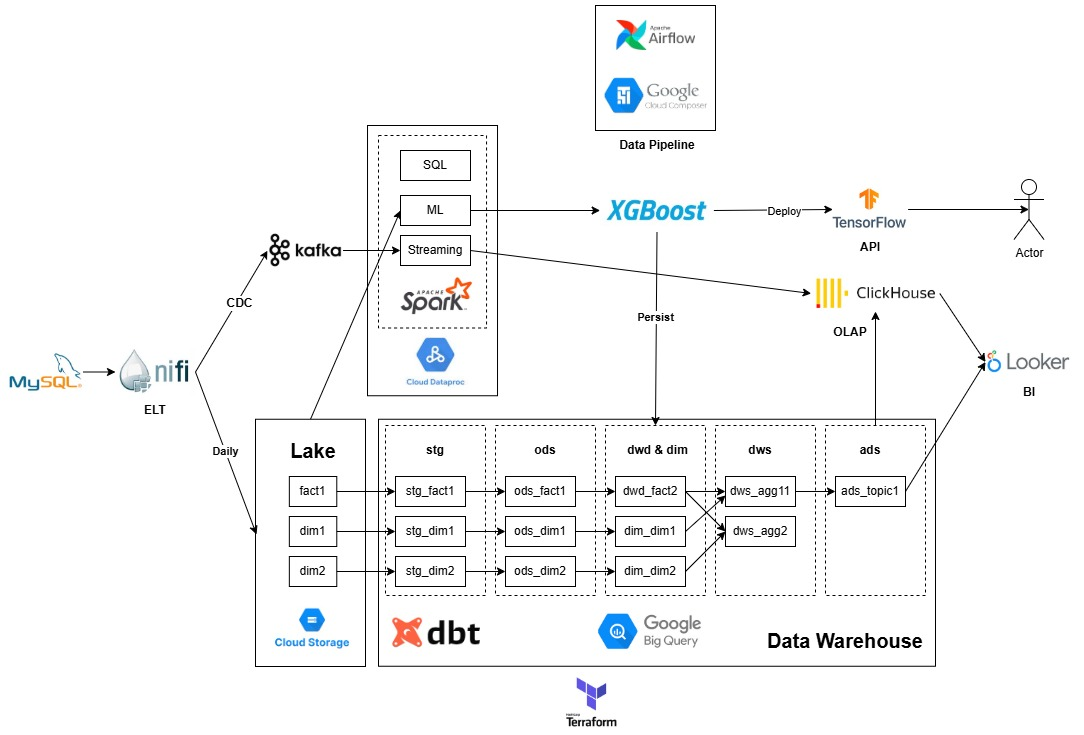
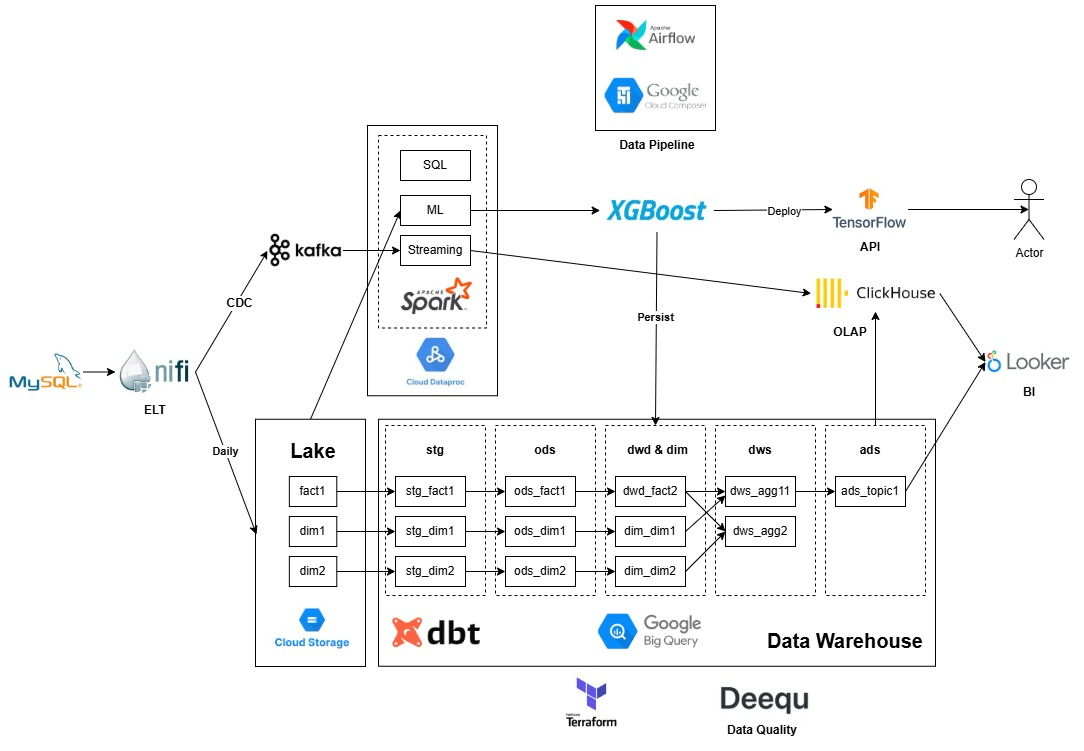
update pictures

diff --git a/Prerequisite/methodology.md b/Prerequisite/methodology.md
@@ -80,7 +80,8 @@
   - dbt
 - Data Pipeline Orchestration
   - Airflow, Cloud Composer
-- Data Monitoring
+- Data Quality
+  - Deequ
 - Data Application: BI, ML
   - Looker, Spark ML, XGBoost
 
@@ -88,7 +89,7 @@
 - Completeness: missing or not
   - Attribute-level(columns), Record-level(rows)
 - Validity: meet certain criteria
-  - data format(phone, zipcode, email, date), data range(min, max, enumeration, nullable), complex rules(if a = 1 then b < 0.5)
+  - data format(phone, zipcode, email, date), data type(integer, string), data range(min, max, enumeration, nullable), complex rules(if a = 1 then b < 0.5)
 - Uniqueness: duplication or not
 - Timeliness: available before when
   - Freshness, Latency
@@ -96,18 +97,19 @@
 - Accuracy: correct or not
 - Integrity: the accuracy and consistency of data over its lifecycle
 
-### Frameworks
+### Open Source Frameworks
 - https://github.com/awslabs/deequ
 - https://github.com/great-expectations/great_expectations
+  - https://github.com/calogica/dbt-expectations
 - https://github.com/sodadata/soda-core
-- https://github.com/calogica/dbt-expectations
+- https://github.com/ubisoft/mobydq
   
 ![Data Quality](https://github.com/barneywill/bigdata_demo/blob/main/imgs/data_quality.jpg)
 
 ## <a id='architecture'></a> 8 Data Architecture
-- Lambda
-  - Drawbacks: double code and system/conflict
-- Kappa
+- Lambda: Batch + Real-time
+  - Drawbacks: double code and system/conflicts
+- Kappa: Only Real-time
   - Drawbacks: re-precess/out of order data/cold storage/complex joins
 
 ![bigdata cloud](https://github.com/barneywill/bigdata_demo/blob/main/imgs/bigdata_cloud.jpg)

diff --git a/Deequ/README.md b/Deequ/README.md
@@ -1,0 +1,10 @@
+# Deequ
+
+Deequ is a library built on top of Apache Spark for defining "unit tests for data", which measure data quality in large datasets. 
+
+## 1 Install
+
+#### Put it under $SPARK_HOME/jars
+https://repo1.maven.org/maven2/com/amazon/deequ/deequ/2.0.8-spark-3.5/deequ-2.0.8-spark-3.5.jar
+
+## 2 Example
